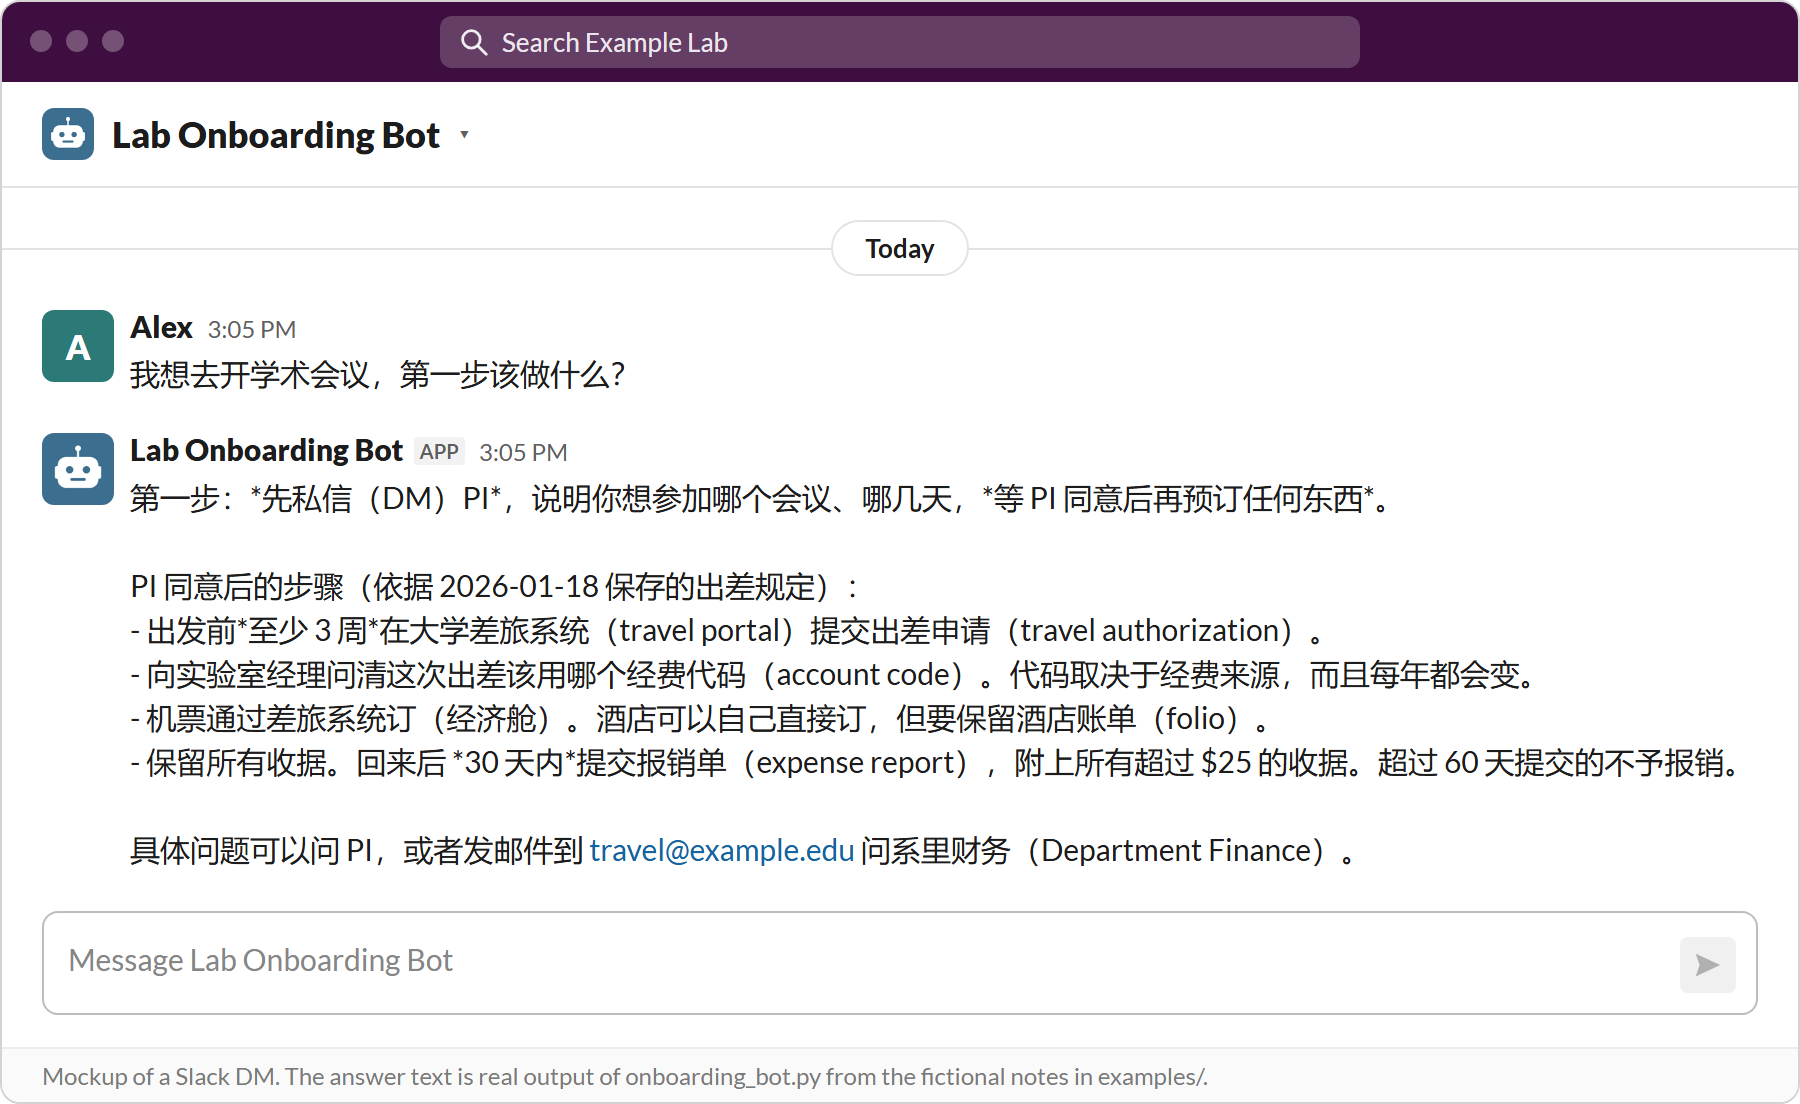
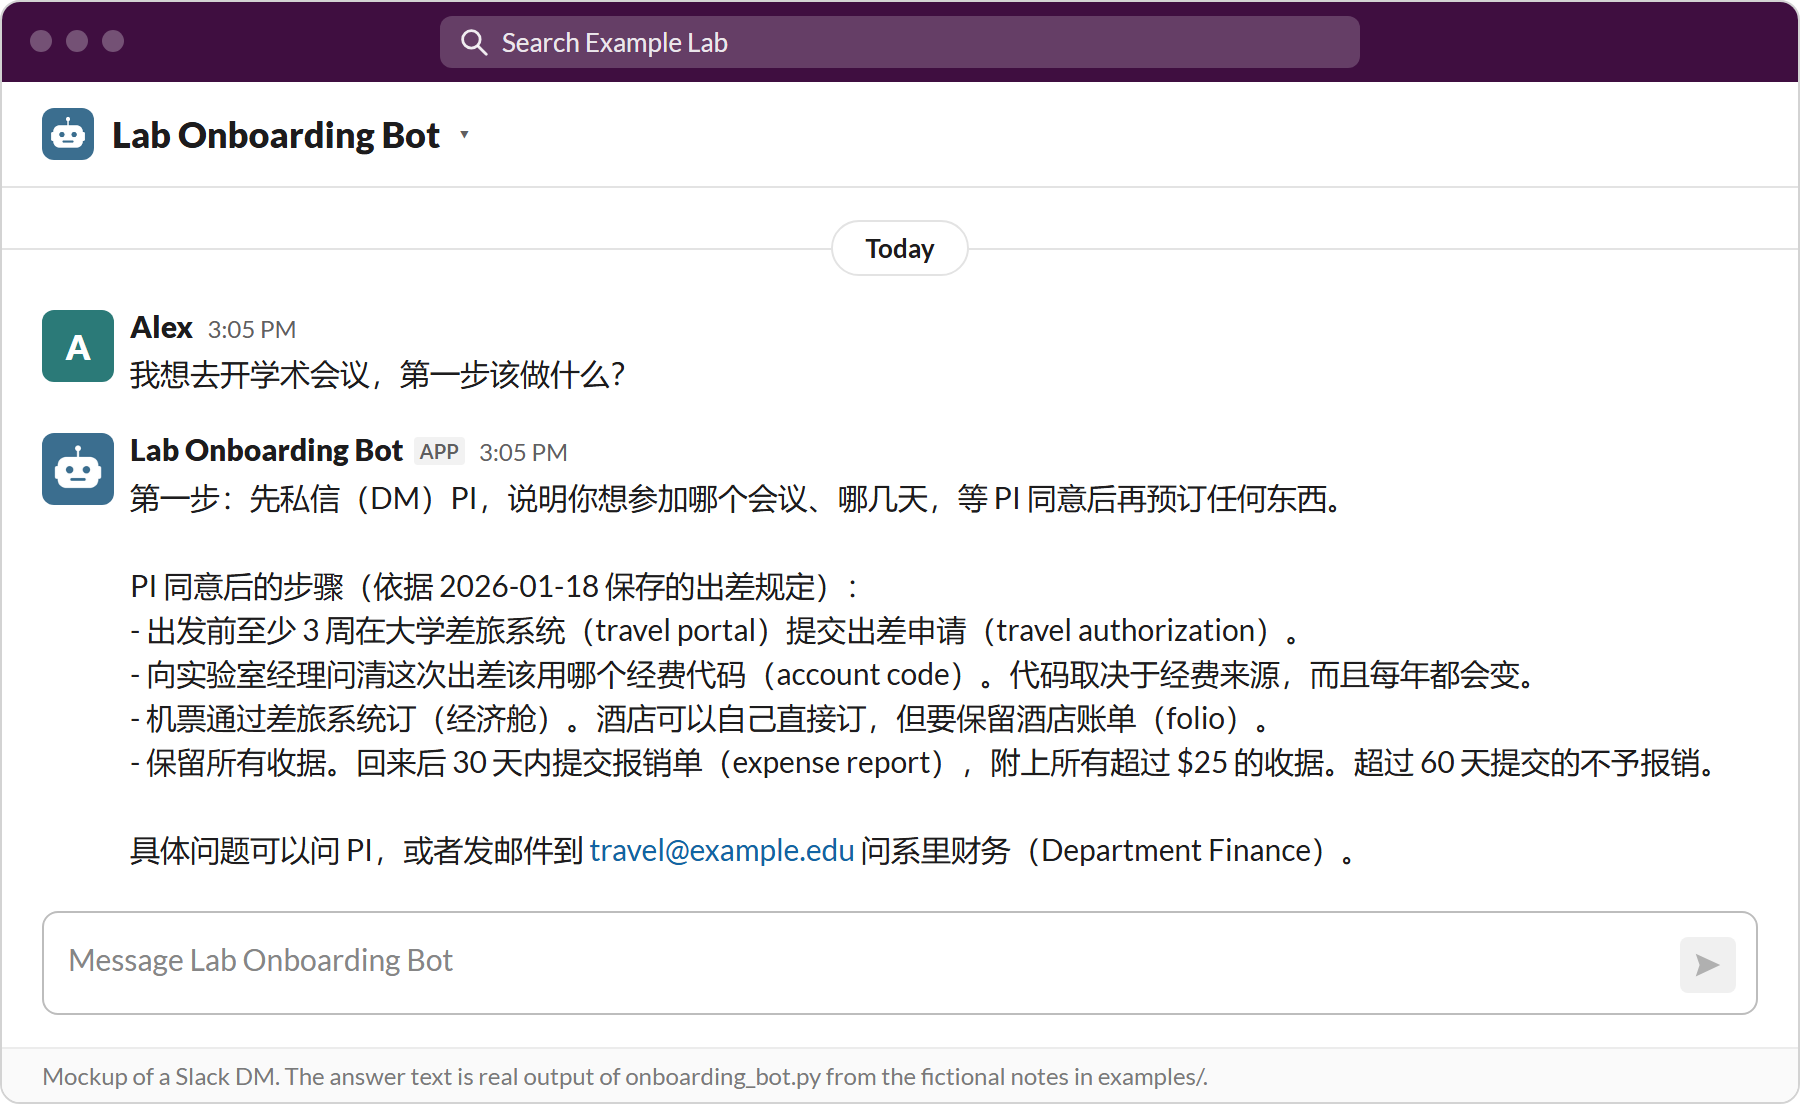
Drop the asterisks Slack would show around bold next to Han or Hangul
Slack renders *bold* only with the start or end, a space or ASCII punctuation
around the asterisks; next to Han, Hangul or a full-width mark (出发前*至少 3 周*在,
*5 영업일 이내*에) it shows them as typed, even though the prompt asks the model
to avoid this. reply() now passes every answer (DM, mention, thread) through
unbold_unrenderable() right after the ``` language-tag fix: such spans keep their
text and lose the two asterisks. Bold that Slack renders, spans next to an ASCII
letter or digit (2*3*4, a*b*c), list bullets, lone asterisks and code stay as
they are; the function is idempotent. No prompt change.

Tests: 7 new checks (319 in all), including reply() end to end. The Chinese
travel and Korean receipt mockups are re-rendered from their stored answers
passed through the new function (no new model call).

Claude-Session: https://claude.ai/code/session_011Y67kFmbNrX2BEGCuBaBYR

Changed region(s): [[0.2489, 0.6775, 0.9644, 0.7083], [0.1244, 0.4312, 0.7778, 0.462], [0.1244, 0.5543, 0.7156, 0.5851]]

diff --git a/tools/test_offline.py b/tools/test_offline.py
@@ -483,6 +483,52 @@ slack, say = FakeSlack(), FakeSay()
 run(bot.reply, slack, say, {"channel": "D1", "ts": t(20), "user": ME}, ctx, "q", None, True)
 check("reply: channel-wide and group pings in an answer are defused", slack.updates[-1][2] == "hi @channel and @subteam @group",
       slack.updates)
+# Slack bolds *x* only with the start or end, a space or ASCII punctuation around the asterisks: anything else shows them
+unbold = bot.unbold_unrenderable
+UNBOLD = {  # the bot's real answers whose asterisks Slack showed, and a full-width bracket
+    "第一步：*先私信（DM）PI*，说明你想参加哪个会议、哪几天，*等 PI 同意后再预订任何东西*。":
+        "第一步：先私信（DM）PI，说明你想参加哪个会议、哪几天，等 PI 同意后再预订任何东西。",
+    "出发前*至少 3 周*在大学差旅系统…": "出发前至少 3 周在大学差旅系统…",
+    "回来后 *30 天内*提交报销单": "回来后 30 天内提交报销单",
+    "구매일로부터 *5 영업일 이내*에 랩 매니저에게…": "구매일로부터 5 영업일 이내에 랩 매니저에게…",
+    "「*注意*」": "「注意」",
+}
+got = {text: unbold(text) for text in UNBOLD}
+check("unbold: bold with Han, Hangul or a full-width mark next to its asterisks becomes plain text", got == UNBOLD, got)
+KEPT = ("*bold* text", "(*bold*)", "*bold*.", "line one\n*bold* at a line start", "*굵게* 한국어 *bold*",
+        "中文 *粗体* 和 (*粗体*)。")
+check("unbold: bold that Slack renders keeps its asterisks", [unbold(text) for text in KEPT] == list(KEPT),
+      [unbold(text) for text in KEPT])
+ASCII = ("2*3*4", "a*b*c", "x *y*z", "长*宽*2")
+check("unbold: an ASCII letter or digit next to an asterisk leaves the span as it is, also with Han on the other side",
+      [unbold(text) for text in ASCII] == list(ASCII), [unbold(text) for text in ASCII])
+check("unbold: list bullets and lone asterisks stay; a span on a bullet line still loses its asterisks",
+      [unbold(text) for text in ("* item", "* 항목\n* 项目", "注意 * 号", "注意*", "*", "a * b", "* 항목*이*다")]
+      == ["* item", "* 항목\n* 项目", "注意 * 号", "注意*", "*", "a * b", "* 항목이다"])
+check("unbold: ``` code blocks and `inline code` are never changed, the text around them is",
+      unbold("```\n中*文*中\n2*3*4\n```\n见`中*文*中`和*这里*。") == "```\n中*文*中\n2*3*4\n```\n见`中*文*中`和这里。")
+check("unbold: idempotent, also when dropping one pair leaves the next pair next to Han",
+      unbold("中*文**b* ") == "中文b " and all(unbold(unbold(text)) == unbold(text)
+                                             for text in [*UNBOLD, *KEPT, *ASCII, "中*文**b* ", "中*a* *b*中"]))
+MIXED = ("영수증 메일 초안이에요. *Receipt* 메일은 아래 형식으로 쓰세요:\n\n"
+         "```text\nSubject: Receipt - <vendor> - <date>\nTotal: 2*3*4 = *24*원\n```\n\n"
+         "- 영수증은 구매일로부터 *5 영업일 이내*에 *lab manager*에게 보내세요.\n"
+         "- `*.pdf*파일`로 첨부하고, *PI 승인*이 필요하면 *먼저* 물어보세요.\n"
+         "* 출처: 구매 규정 (*2026-02-03* 업데이트)")
+POSTED = ("영수증 메일 초안이에요. *Receipt* 메일은 아래 형식으로 쓰세요:\n\n"
+          "```\nSubject: Receipt - <vendor> - <date>\nTotal: 2*3*4 = *24*원\n```\n\n"
+          "- 영수증은 구매일로부터 5 영업일 이내에 lab manager에게 보내세요.\n"
+          "- `*.pdf*파일`로 첨부하고, PI 승인이 필요하면 *먼저* 물어보세요.\n"
+          "* 출처: 구매 규정 (*2026-02-03* 업데이트)")
+reply["r"] = fake_response("end_turn", text=MIXED)
+posted = []
+for event, thread_ts, in_dm in (({"channel": "D1", "ts": t(20), "user": "UMIX"}, None, True),  # a DM
+                                ({"channel": "C1", "ts": "40.0", "user": "UMIX"}, "40.0", False)):  # a mention
+    slack = FakeSlack()
+    run(bot.reply, slack, FakeSay(), event, ctx, "q", thread_ts, in_dm)
+    posted.append(slack.updates[-1][2])
+check("reply: a full answer in Korean and English is posted without the asterisks Slack would show (DM and mention); "
+      "rendered bold, the bullet and code keep theirs", posted == [POSTED, POSTED], posted)
 reply["r"] = fake_response("end_turn", text="ANSWER-TEXT")
 seen.clear()
 slack, say, asked = FakeSlack(top, threads), FakeSay(), len(bot._asked[ME])

diff --git a/onboarding_bot.py b/onboarding_bot.py
@@ -845,6 +845,27 @@ def defuse(text: str) -> str:
     return re.sub(r"<!(here|channel|everyone|group|subteam)[^>]*>", r"@\1", text)
 
 
+def unbold_unrenderable(text: str) -> str:
+    """*Bold* that Slack shows with its asterisks (Han, Hangul or a full-width mark next to it) as plain text."""
+    def side(c: str) -> int:  # 0: boundary (start, end, space, ASCII punctuation); 1: non-ASCII; 2: other ASCII
+        return 0 if not c or c.isspace() or c.isascii() and not c.isalnum() else 2 if c.isascii() else 1
+
+    def unbold(m: re.Match) -> str:  # Slack does not render it, and only non-ASCII stops it (2*3*4 and a*b*c stay)
+        sides = side(m.string[m.start() - 1:m.start()]), side(m.string[m.end():m.end() + 1])
+        return m.group(1) if 1 in sides and 2 not in sides else m.group(0)
+
+    def plain(part: str) -> str:  # again until nothing changes: a second call changes nothing
+        while (new := re.sub(r"\*([^*`\s](?:[^*`\n]*[^*`\s])?)\*", unbold, part)) != part:
+            part = new
+        return part
+
+    blocks = re.split(r"(```.*?```)", text, flags=re.S)  # odd items: ``` code blocks, never changed
+    for i in range(0, len(blocks), 2):  # between them, `inline code` is never changed either
+        spans = re.split(r"(`[^`\n]+`)", blocks[i])
+        blocks[i] = "".join(span if j % 2 else plain(span) for j, span in enumerate(spans))
+    return "".join(blocks)
+
+
 def teach_text(text: str) -> str | None:
     """The fact in a "remember: ..." / "기억해: ..." message (leading @mentions removed, others kept), or None if it is
     not such a command."""
@@ -2076,6 +2097,7 @@ def reply(client, say, event: dict, context, question: str, thread_ts: str | Non
             text = tool_results(tool_ctx) + ("\n" + MEMORY_DROPPED if tool_ctx.reset else "")
     text = defuse(text)  # never ping a whole channel or group
     text = re.sub(r"(?m)^(\s*```)[A-Za-z0-9_+-]+[ \t]*$", r"\1", text)  # Slack shows a ```text language tag as a line
+    text = unbold_unrenderable(text)  # Slack shows *bold* next to Han or Hangul with its asterisks
     try:
         client.chat_update(channel=posted["channel"], ts=posted["ts"], text=text)
     except Exception as e:  # could not edit the placeholder; post the answer as a new message instead
